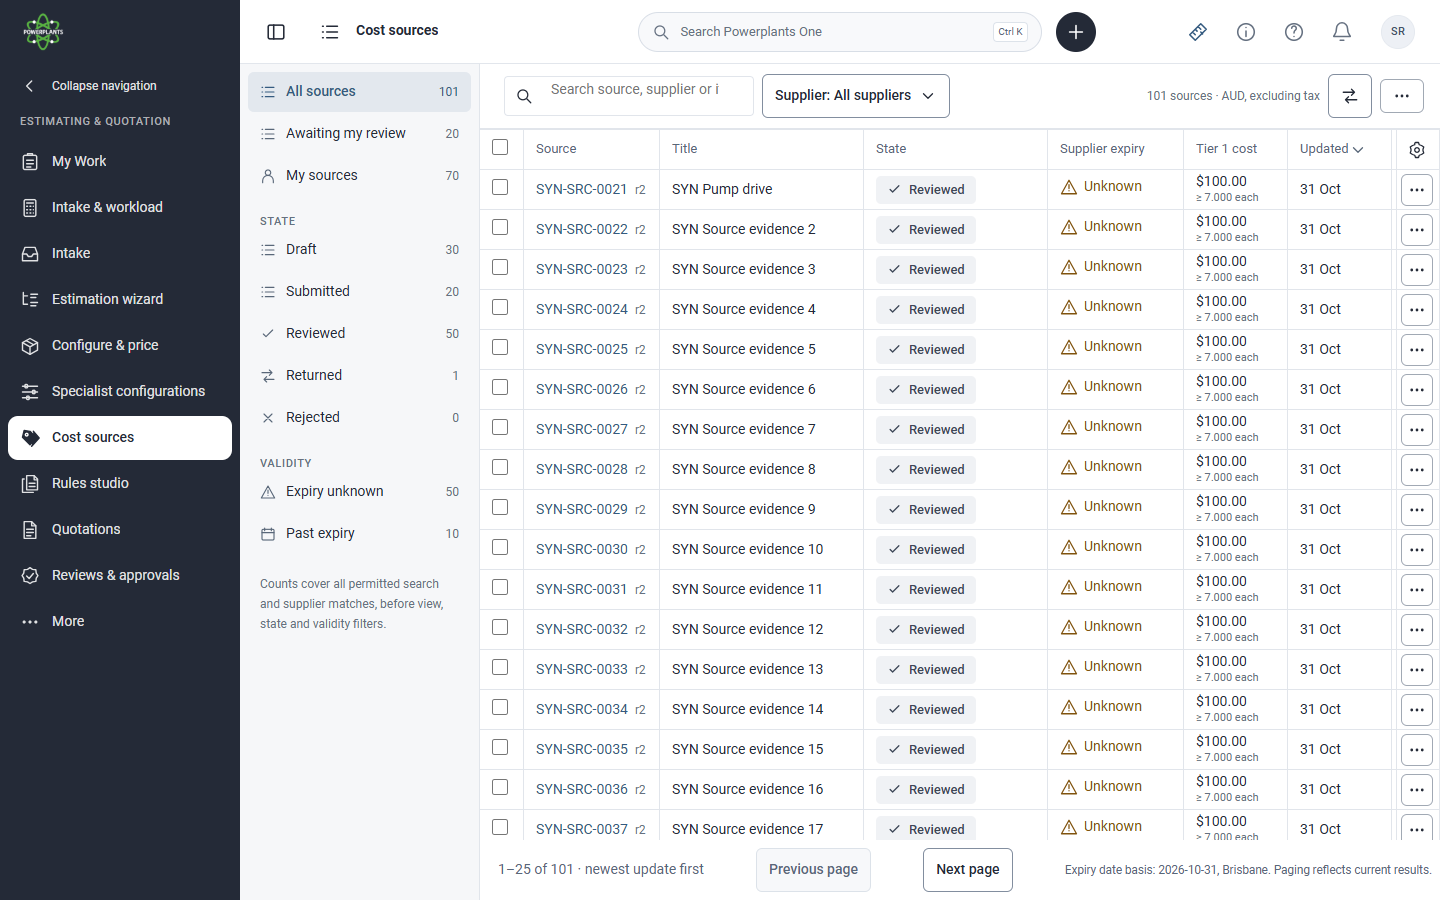
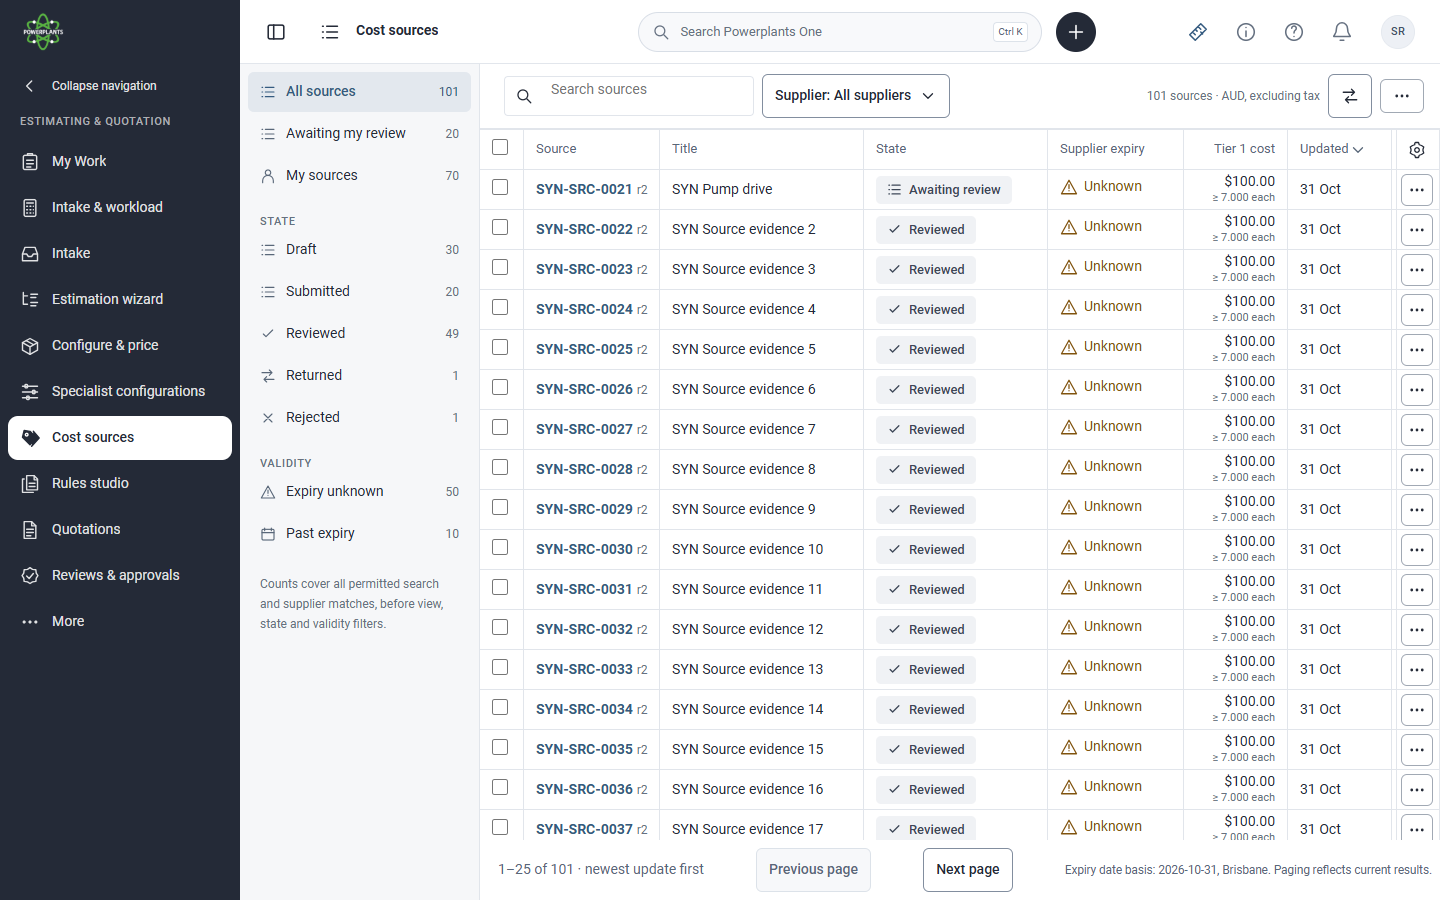
test(estimating): publish reviewed Cost sources interaction captures

diff --git a/docs/testing/evidence/cost-source-register/workspace/README.md b/docs/testing/evidence/cost-source-register/workspace/README.md
@@ -15,3 +15,18 @@ Compared register captures at 1440, 1024, 390 and 320 pixels with the retained a
 Inspected the register at four widths, desktop/tablet snapshots and the scrolled 320 px snapshot against retained desktop and phone references. Fixed menu bullets, phone button layout and tablet tab occlusion. Snapshot/selection capture sets are supplied for review. Loading appears while the API read is pending; a deliberately held network-loading case and keyboard tab navigation passed. Manual screen-reader testing, the remaining native creation/review/refresh browser journeys, broader application suites and formal visual acceptance were not run or granted in this increment. No baseline fingerprint is marked reviewed.
 
 Full 25-row fixtures verify the final phone row remains visible above fixed controls at 390 and 320 px. Selection evidence uses two rows. The state badges and action controls reuse the current shared implementations; their fills/weight, action-panel presentation and the paging footer differ from the historic drawing and remain explicit visual-review items.
+
+## Independent-review follow-up — 1 November 2026
+
+Claude review 5722293263 identified eight UI findings on 029a853c. The proposed phone-selection correction from #809 through fa8c7235 is incorporated in the author branch, without merging or modifying #809. Current main is merged, including the Markdown guide migration. The rewritten InReview guide no longer claims byte-identical carried-over content and its one obsolete parity fixture is retired; guide publication remains separate.
+
+The expanded synthetic browser case passed after the interaction corrections: 390/320 selection and in-panel Hide, a small-movement hold, exact native review-step focus at 1440/320 after client loading, neutral FX evidence wording, menu collapse/search/paging focus, snapshot position after polling removes the selected result, row-menu/selection focus return and editable intermediate column widths. Twenty focused unit tests including guide parity passed. Final visual/FX/touch-scroll refinements are checked by the final rerun reported in the PR.
+
+New captures include phone selected lists and open panels at 390/320, and focused native review steps at 1440/320. Inspecting the revised desktop capture revealed a crowded revision suffix beside semibold source references; the suffix now remains visible separately while long references can truncate with their full value in the title. The search placeholder is shortened, cost header/values right aligned and Rejected muted. The rail badge is still absent: current navigation does not bind per-page counts. The full Awaiting my review count is available in the secondary menu. This is a declared remaining design difference, not a zero or an acceptance claim.
+
+New-head CI and independent review are pending. The prior published head completed its reported checks successfully or skipped; that result does not certify the new head. Physical-device touch checks, manual screen-reader testing and local full cross-module/database/HTTP suites were not rerun for these UI-only corrections. Retained source commands and pricing lineage were not edited. No visual or owner acceptance and no deployment.
+
+Final-run corrections and limits: one attempt timed out during initial page navigation; two runs exceeded the temporary harness's five-second URL assertion window. Focused search drafts now survive pending URL transitions, and Back/Forward explicitly restores the URL search value. The final local rerun uses the same 20-second assertion window used in Claude's #809 review, with every assertion retained and traces enabled. Repository/CI deadlines are unchanged; no five-second performance claim or unrelated-failure classification is made. A delayed selection read is also tested across a query change so it cannot open or export an obsolete context.
+
+
+Final corrected browser run: passed (3.3 minutes) with the disclosed local 20-second assertion window, including Back/Forward search restoration, obsolete selection-read rejection and all four viewport captures. The final 1440, 1024, 390 and 320 register captures were inspected again. Twenty focused units, full lint, studio, foundation, naming and status checks passed in this correction session; final typecheck/focused lint and new-head CI are reported separately in the completion comment. The task-owned port-3475 server was stopped after proof.

diff --git a/docs/guides/pages/guide.route-estimating-cost-sources.md b/docs/guides/pages/guide.route-estimating-cost-sources.md
@@ -6,7 +6,7 @@ title: Cost sources and reviewed estimate refresh
 status: InReview
 versioning: git
 owner_role: "Prototype content owner: Dean Fiedler"
-source_commit: b95d335987ee3b8f2c9f19509e7832c5200db67d
+source_commit: 07b0d91614016bf569099e5f8e4cb729620f9f40
 contents: { overview: "Overview", how: "How to use", journey: "Journey map" }
 list_styles: { journey: journey }
 ---
